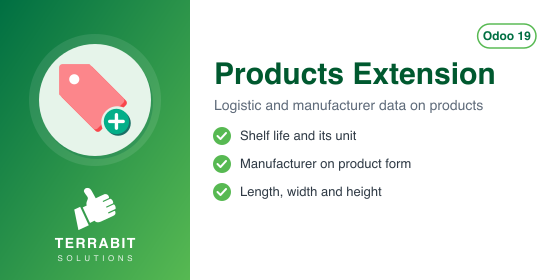
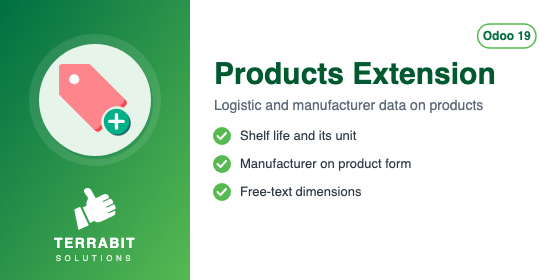
[19.0][IMP] deltatech_product_extension: describe Dimensions as a free-text field (#3902)
* [IMP] deltatech_product_extension: describe Dimensions as a free-text field

The Apps description promised Length, Width and Height fields; the module
adds one free-text Dimensions field and does not calculate the volume.

* [IMP] deltatech_product_extension: banner feature "Free-text dimensions"

---------

diff --git a/deltatech_product_extension/static/description/index.html b/deltatech_product_extension/static/description/index.html
@@ -54,8 +54,8 @@
 <li>
 <p><strong>Physical Dimensions</strong>:</p>
 <ul>
-<li>Adds fields for specifying product dimensions (Length, Width, Height) directly on the product record.</li>
-<li>Useful for shipping, storage planning, and catalog displays.</li>
+<li>Adds a free-text <strong>Dimensions</strong> field to the product, for example "120 x 60 x 75 cm".</li>
+<li>Useful for documents, catalogs and quick reference. The field does not calculate the product volume. For numeric Length, Width and Height fields that fill in the volume, use the Product Dimensions module (<code class="border rounded px-2" style="font-family:ui-monospace,SFMono-Regular,Menlo,Consolas,monospace;font-size:13px;">deltatech_product_dimension</code>).</li>
 </ul>
 </li>
 <li>
@@ -68,9 +68,9 @@
 <h1 class="fw-bold mt-4 mb-3" style="border:none;border-left:4px solid #57B952;padding-left:16px;font-size:24px;letter-spacing:-0.3px;line-height:1.2;">Usage</h1>
 <ol>
 <li>Go to <strong>Sales &gt; Products &gt; Products</strong> or <strong>Inventory &gt; Products &gt; Products</strong>.</li>
-<li>Open any product record and locate the new fields in the <strong>General Information</strong> or a dedicated <strong>Technical</strong> tab.</li>
+<li>Open any product record. <strong>Manufacturer</strong> appears under the product category; <strong>Dimensions</strong> and <strong>Shelf Life</strong> appear in the <strong>General Information</strong> tab, next to the cost.</li>
 <li>Fill in the <strong>Manufacturer</strong>, <strong>Shelf Life</strong>, and its <strong>UOM</strong>.</li>
-<li>Enter the <strong>Dimensions</strong> (L x W x H) as needed for your logistics or cataloging.</li>
+<li>Enter the <strong>Dimensions</strong> as text (for example L x W x H) as needed for your documents or catalog.</li>
 <li>In the <strong>Contacts</strong> module, you can now tag partners as manufacturers for better filtering.</li>
 </ol>
 </div>
@@ -193,6 +193,26 @@
       </a>
     </div>
     <div class="col-md-3 col-sm-6">
+      <a href="https://apps.odoo.com/apps/modules/19.0/deltatech_import_lines_sale" target="_blank" rel="noopener"
+         class="card h-100 text-decoration-none border" style="color:#212529;">
+        <div class="card-body p-3">
+          <div class="d-flex align-items-center mb-2">
+            <span class="d-inline-block position-relative me-2 flex-shrink-0" style="width:40px;height:40px;">
+              <span class="d-inline-block text-center fw-bold rounded"
+                    style="width:40px;height:40px;line-height:40px;font-size:14px;color:#ffffff;background-color:#006F42;">IL</span>
+              <img src="https://apps.odoocdn.com/apps/assets/19.0/deltatech_import_lines_sale/icon.png" alt="" loading="lazy"
+                   class="position-absolute top-0 start-0 rounded" style="width:40px;height:40px;border:none;background-color:#ffffff;"/>
+            </span>
+            <span>
+              <span class="d-block fw-semibold" style="font-size:16px;line-height:1.25;">Import Lines in Sale Orders</span>
+              <span class="d-block" style="font-size:13px;color:#3d4752;">Sales</span>
+            </span>
+          </div>
+          <p class="mb-0" style="font-size:15px;line-height:1.45;color:#3d4752;">Load sale order lines from an XLSX, XLS, CSV or TXT file</p>
+        </div>
+      </a>
+    </div>
+    <div class="col-md-3 col-sm-6">
       <a href="https://apps.odoo.com/apps/modules/19.0/deltatech_invoice_picking" target="_blank" rel="noopener"
          class="card h-100 text-decoration-none border" style="color:#212529;">
         <div class="card-body p-3">
@@ -249,26 +269,6 @@
             </span>
           </div>
           <p class="mb-0" style="font-size:15px;line-height:1.45;color:#3d4752;">Print product labels for the products of a price change document</p>
-        </div>
-      </a>
-    </div>
-    <div class="col-md-3 col-sm-6">
-      <a href="https://apps.odoo.com/apps/modules/19.0/deltatech_pricelist" target="_blank" rel="noopener"
-         class="card h-100 text-decoration-none border" style="color:#212529;">
-        <div class="card-body p-3">
-          <div class="d-flex align-items-center mb-2">
-            <span class="d-inline-block position-relative me-2 flex-shrink-0" style="width:40px;height:40px;">
-              <span class="d-inline-block text-center fw-bold rounded"
-                    style="width:40px;height:40px;line-height:40px;font-size:14px;color:#ffffff;background-color:#006F42;">PC</span>
-              <img src="https://apps.odoocdn.com/apps/assets/19.0/deltatech_pricelist/icon.png" alt="" loading="lazy"
-                   class="position-absolute top-0 start-0 rounded" style="width:40px;height:40px;border:none;background-color:#ffffff;"/>
-            </span>
-            <span>
-              <span class="d-block fw-semibold" style="font-size:16px;line-height:1.25;">Pricelist Currency Extension</span>
-              <span class="d-block" style="font-size:13px;color:#3d4752;">Sales</span>
-            </span>
-          </div>
-          <p class="mb-0" style="font-size:15px;line-height:1.45;color:#3d4752;">Set the product list price in a currency other than the company&#x27;s</p>
         </div>
       </a>
     </div>

diff --git a/deltatech_product_extension/__manifest__.py b/deltatech_product_extension/__manifest__.py
@@ -4,8 +4,8 @@
 
 {
     "name": "Products Extension",
-    "summary": "New fields in product: Manufacturer  Dimensions, Shelf Life and Unit of Measure for Shelf Life",
-    "version": "19.0.1.1.1",
+    "summary": "New fields in product: Manufacturer, Dimensions, Shelf Life and Unit of Measure for Shelf Life",
+    "version": "19.0.1.1.2",
     "author": "Terrabit, Dorin Hongu",
     "license": "OPL-1",
     "website": "https://www.terrabit.ro",

diff --git a/deltatech_product_extension/readme/DESCRIPTION.md b/deltatech_product_extension/readme/DESCRIPTION.md
@@ -15,8 +15,8 @@ Key Features
     *   Provides quick access to manufacturing origin and contact details.
 
 3.  **Physical Dimensions**:
-    *   Adds fields for specifying product dimensions (Length, Width, Height) directly on the product record.
-    *   Useful for shipping, storage planning, and catalog displays.
+    *   Adds a free-text **Dimensions** field to the product, for example "120 x 60 x 75 cm".
+    *   Useful for documents, catalogs and quick reference. The field does not calculate the product volume. For numeric Length, Width and Height fields that fill in the volume, use the Product Dimensions module (`deltatech_product_dimension`).
 
 4.  **Partner Integration**:
     *   Extends the partner model to include a "Manufacturer" checkbox, allowing for easy categorization of vendors and suppliers.
@@ -25,7 +25,7 @@ Usage
 =====
 
 1.  Go to **Sales > Products > Products** or **Inventory > Products > Products**.
-2.  Open any product record and locate the new fields in the **General Information** or a dedicated **Technical** tab.
+2.  Open any product record. **Manufacturer** appears under the product category; **Dimensions** and **Shelf Life** appear in the **General Information** tab, next to the cost.
 3.  Fill in the **Manufacturer**, **Shelf Life**, and its **UOM**.
-4.  Enter the **Dimensions** (L x W x H) as needed for your logistics or cataloging.
+4.  Enter the **Dimensions** as text (for example L x W x H) as needed for your documents or catalog.
 5.  In the **Contacts** module, you can now tag partners as manufacturers for better filtering.

diff --git a/deltatech_product_extension/readme/HISTORY.md b/deltatech_product_extension/readme/HISTORY.md
@@ -1,3 +1,7 @@
+## 19.0.1.1.2 (2026-11-02)
+
+- Apps Store description: Dimensions is a free-text field and does not calculate the volume; for numeric dimensions with volume, see Product Dimensions. The fields' location on the product form is described exactly.
+
 ## 19.0.1.1.1 (2026-10-22)
 
 - Consultant sheet (readme/FISA_CONSULTANT.md): the manufacturer, dimensions and shelf life on the
